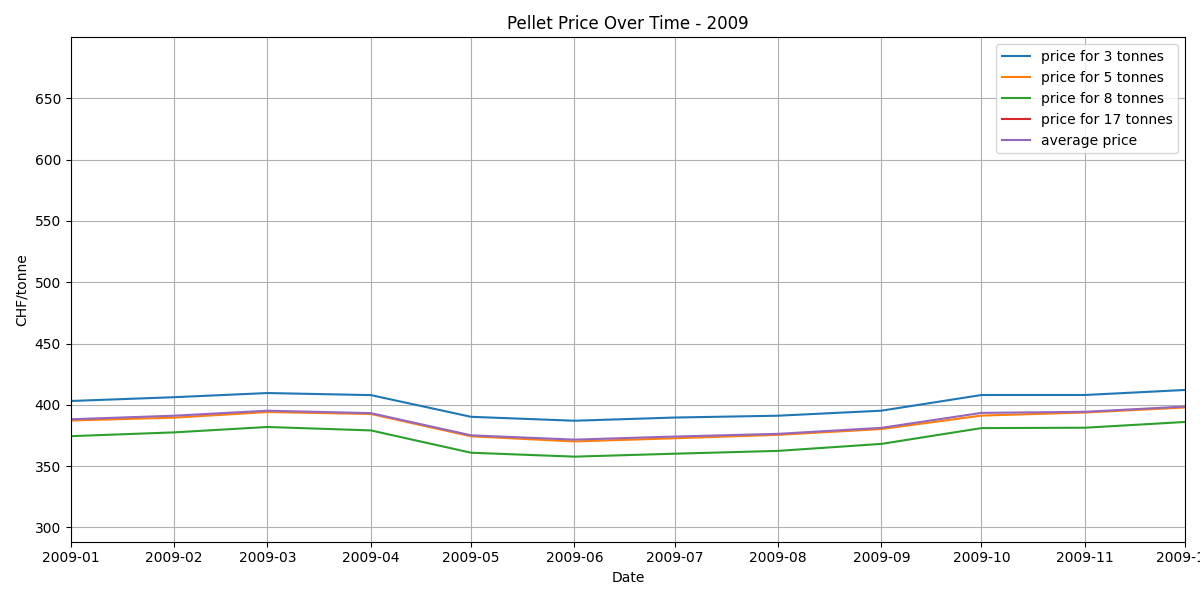
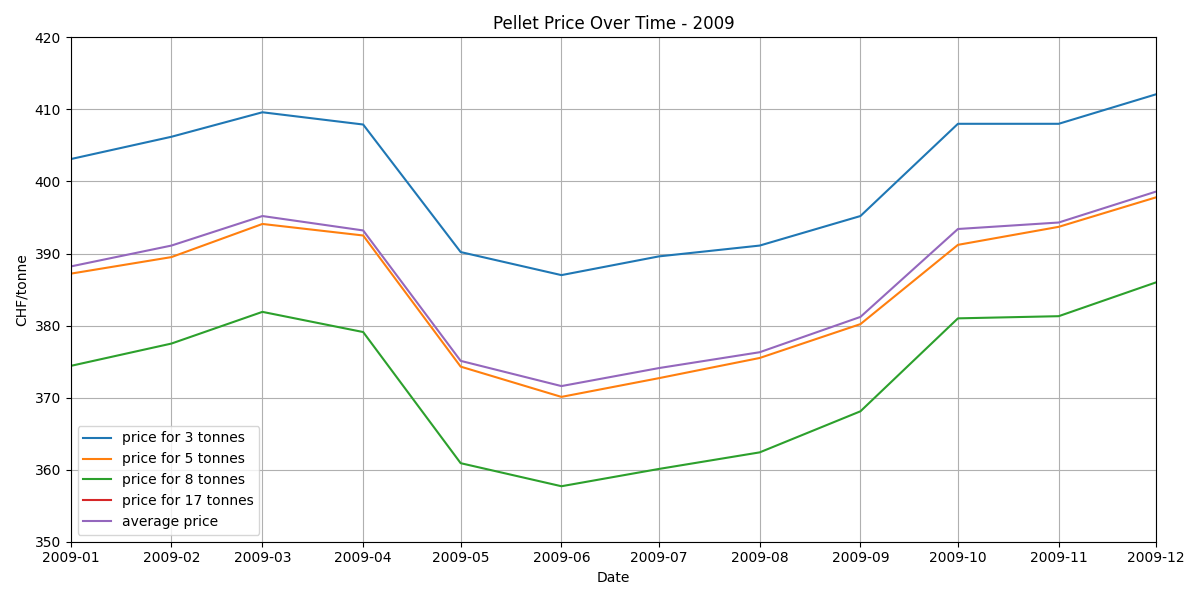
add plot script

diff --git a/plot.py b/plot.py
@@ -1,0 +1,66 @@
+import matplotlib.pyplot as plt
+import numpy as np
+import pandas as pd
+
+DATA_PATH = 'data/monthly_prices.csv'
+COLUMN_LABELS = ["Date", "price for 3 tonnes", "price for 5 tonnes", "price for 8 tonnes", "price for 17 tonnes", "average price"]
+IMAGE_DIR = 'docs/images'
+
+
+def load_data(filepath):
+    df = pd.read_csv(filepath, header=None, parse_dates=[0])
+    df.columns = COLUMN_LABELS
+    return df
+
+
+def plot_data(df, start_date=None, end_date=None, title="Pellet Price Over Time", save_path=None):
+    if start_date and end_date:
+        df = df[(df['Date'] >= start_date) & (df['Date'] <= end_date)]
+
+    plt.figure(figsize=(12, 6))
+    for col, label in zip(df.columns[1:], COLUMN_LABELS[1:]):
+        plt.plot(df['Date'], df[col], label=label)
+
+    if start_date and end_date:
+        # Get the min and max of the filtered data for y-axis adjustment
+        min_value = df.iloc[:, 1:].min().min()
+        max_value = df.iloc[:, 1:].max().max()
+
+        # Round y-axis limits to the nearest hundreds
+        y_min = np.floor(min_value / 10) * 10
+        y_max = np.ceil(max_value / 10) * 10
+
+        plt.xlim(start_date, end_date)
+        plt.ylim(y_min, y_max)
+
+    # Set plot labels and title
+    plt.xlabel('Date')
+    plt.ylabel('CHF/tonne')
+    plt.title(title)
+    plt.grid(True)
+    plt.legend()
+    plt.tight_layout()
+
+    if save_path:
+        plt.savefig(save_path)
+        plt.close()
+
+
+def main():
+    df = load_data(DATA_PATH)
+
+    # Plot the overall data
+    plot_data(df, title="Pellet Price Over Time", save_path=f'{IMAGE_DIR}/plot.png')
+
+    # Plot the yearly data
+    min_year = df['Date'].dt.year.min()
+    max_year = df['Date'].dt.year.max()
+    for year in range(min_year, max_year + 1):
+        start_date = pd.to_datetime(f'{year}-01-01')
+        end_date = pd.to_datetime(f'{year}-12-01')
+        plot_data(df, start_date=start_date, end_date=end_date, title=f'Pellet Price Over Time - {year}',
+                  save_path=f'{IMAGE_DIR}/plot-{year}.png')
+
+
+if __name__ == "__main__":
+    main()
